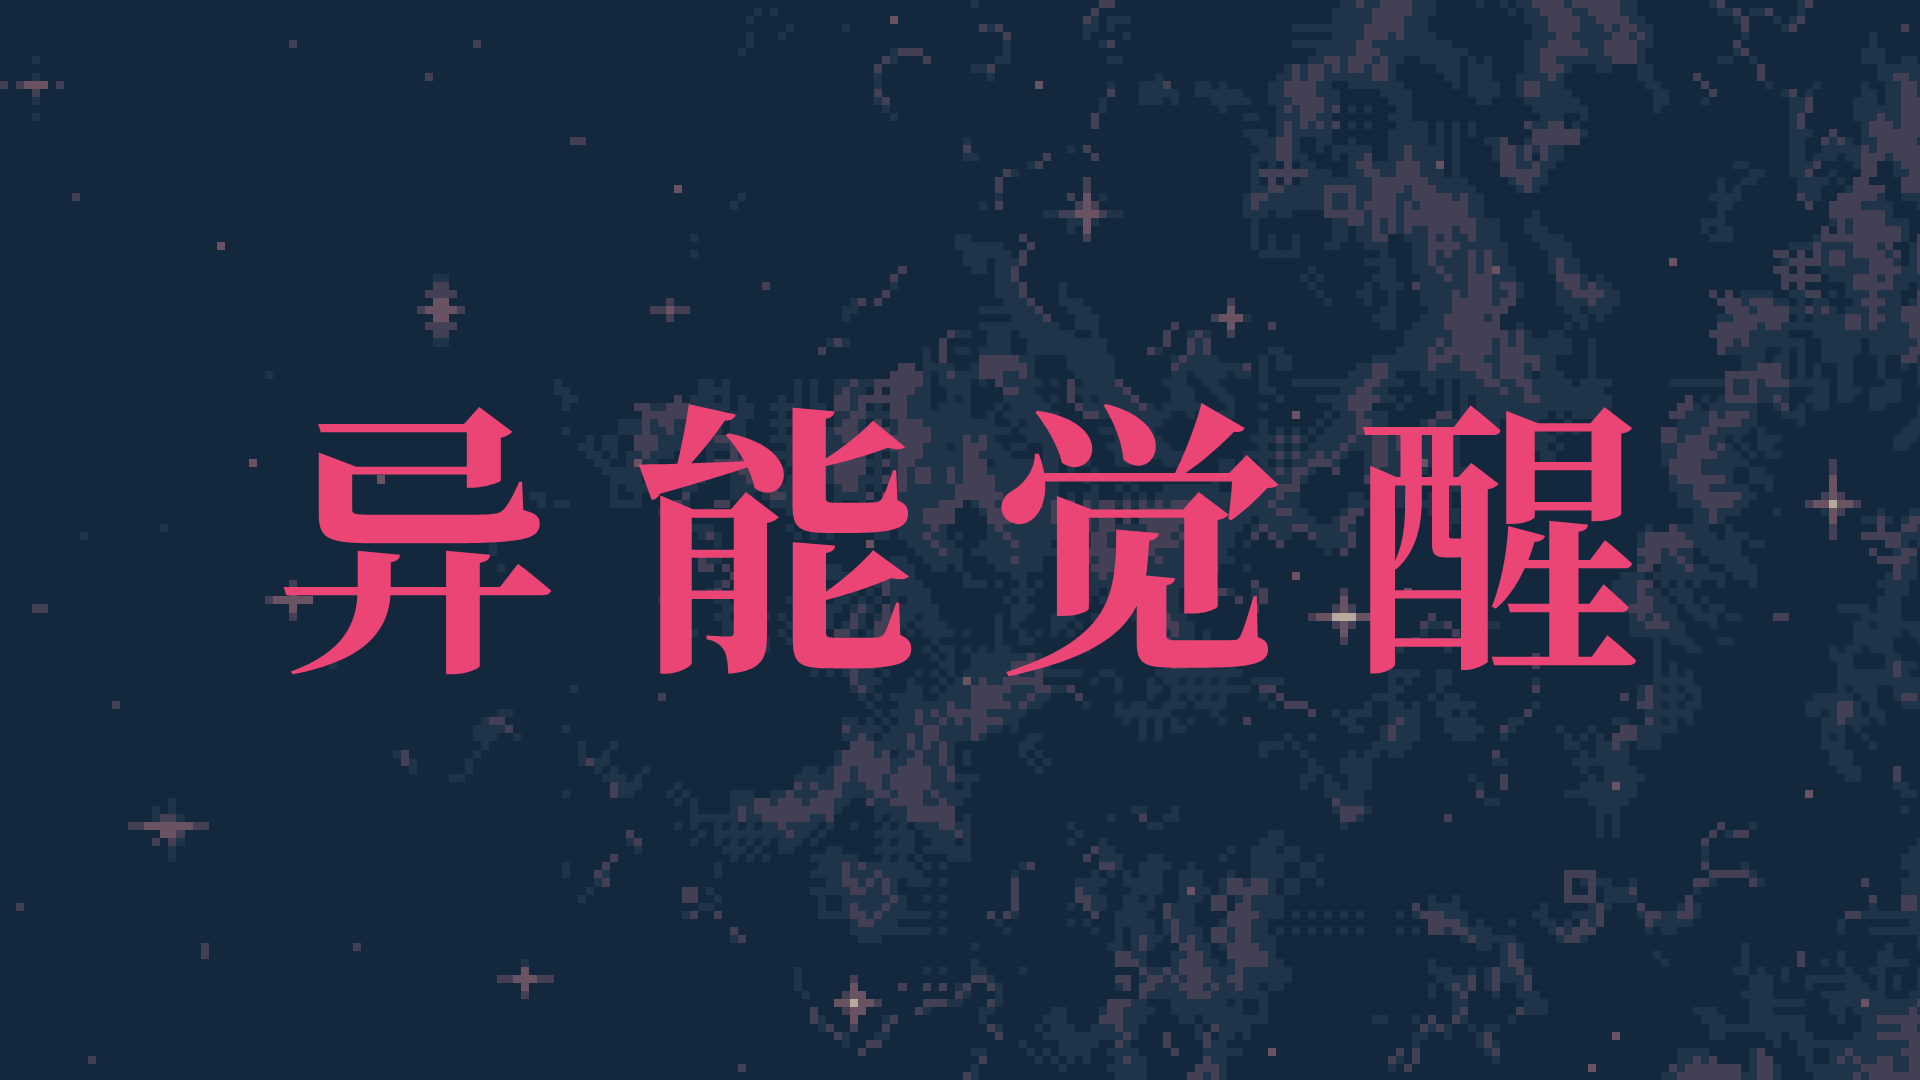
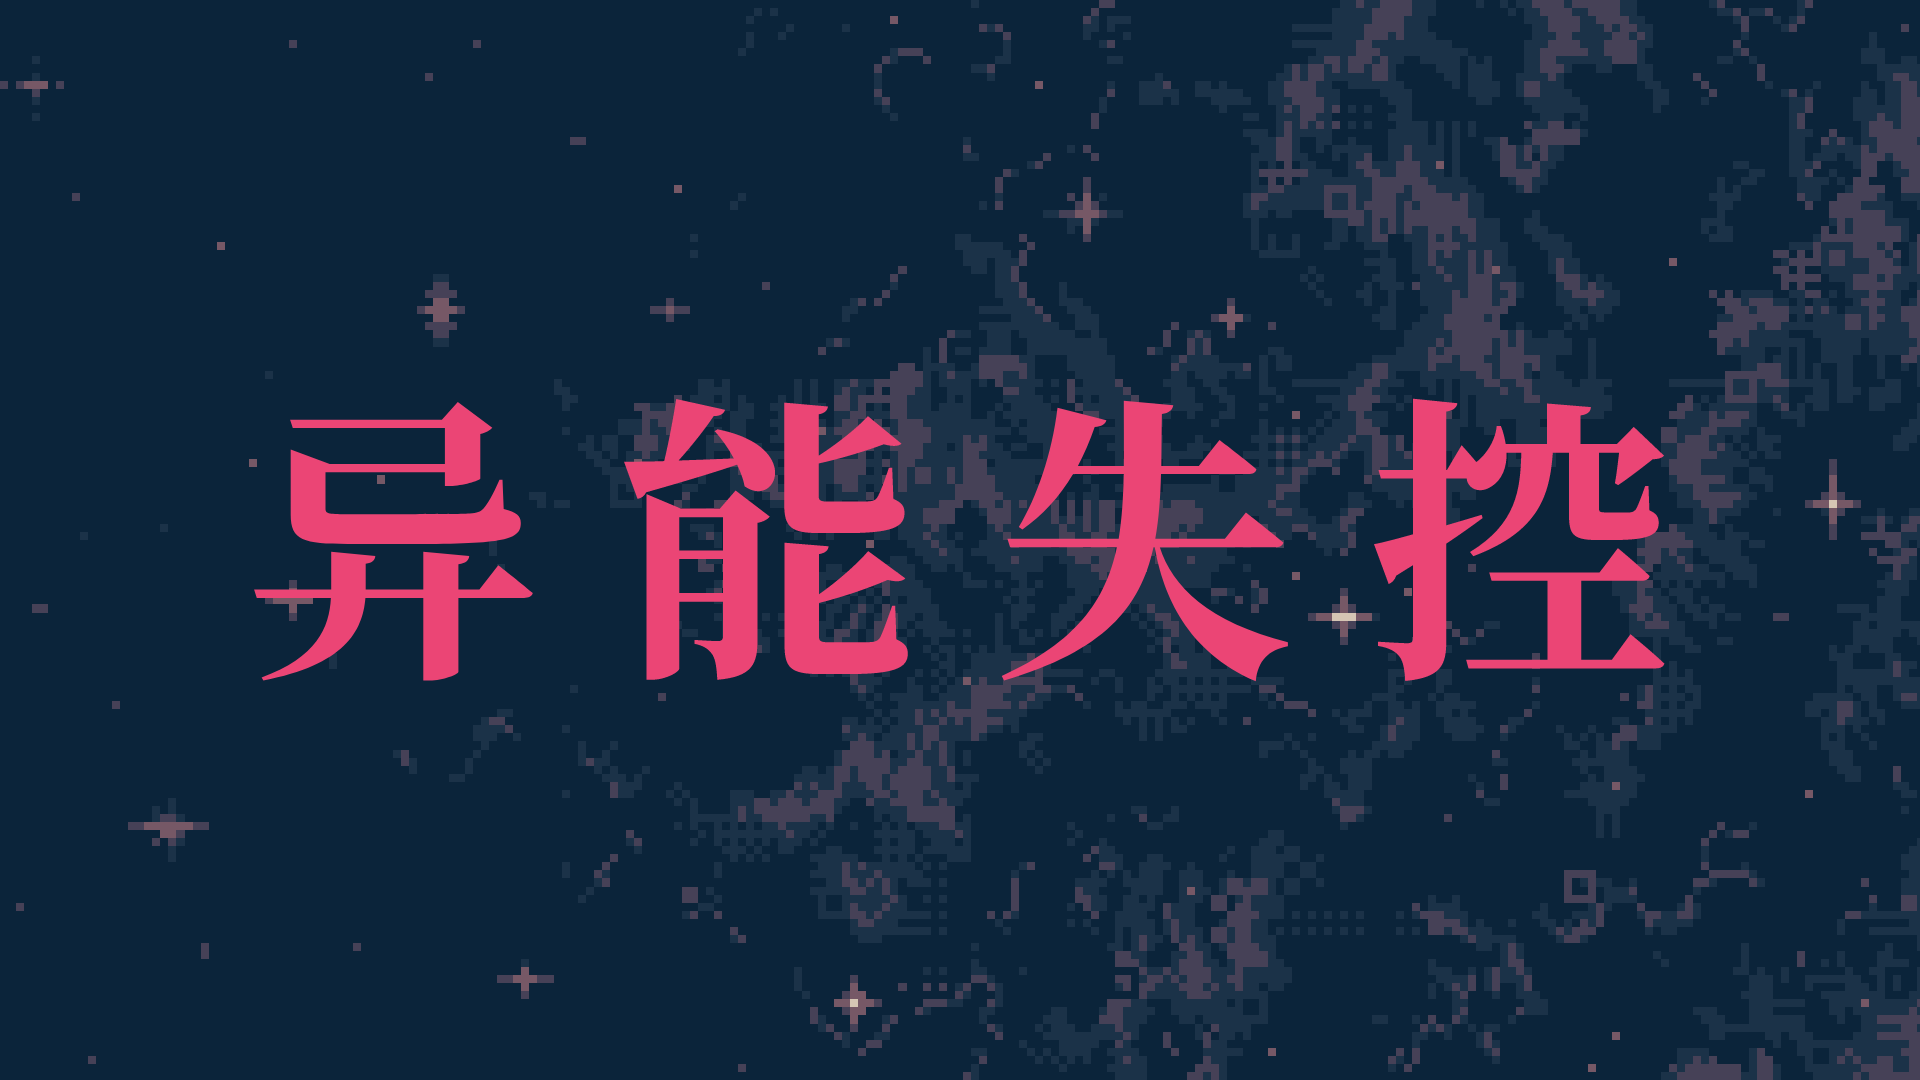
更新游戏

Changed region(s): [[0.5, 0.3667, 0.875, 0.6417], [0.3125, 0.3667, 0.4688, 0.6417], [0.125, 0.3667, 0.2812, 0.6417]]

diff --git a/index.html b/index.html
@@ -129,16 +129,54 @@
 					</header>
 					<div class="posts">
 
+						<!-- 善恶启示录 -->
+						<article>
+							<a href="https://www.taptap.cn/app/243543" class="image"><img src="images/efotuo.png"
+									alt="" /></a>
+							<h3>善恶启示录</h3>
+							<div class="game-des">
+								开局一只小破鬼，获取资源全靠等。在这里，你目之所及的对手是，神圣西天大雷音帮帮主，如林-加特来，阿弥陀佛，施主，该上路了。宇宙超级英雄-咏春叶问，我要打十个！只因门门主-坤太美，你干嘛！哎呦！超级双料特工-鸡汤甲
+								鸡汤来喽！沙城一霸-龙叔，爆率真的高，布灵布灵的！地摊瓜太保-刘强哥，你这游戏保熟吗？
+
+								这，可能是你玩过最无厘头的一个游戏。
+								<br><br>
+								爱发电主页♡：<a href="https://afdian.net/a/efotuo">https://afdian.net/a/efotuo</a>
+								<br><br>
+								(游戏预计12月上旬正式在TapTap和好游快曝上线)
+							</div>
+							<div>
+								<!-- <div class="button custom-button"><a
+										href="https://apps.apple.com/cn/app/id1624369553#?platform=iphone">AppStore</a>
+								</div> -->
+
+								<div class="button custom-button"><a
+										href="https://www.taptap.cn/app/243543">TapTap（预约）</a>
+								</div>
+
+								<div class="button custom-button"><a
+										href="https://www.3839.com/a/148333.htm">好游快爆（预约）</a>
+								</div>
+
+								<!-- <div class="button custom-button"><a
+										href="http://a.4399.cn/game-id-235030.html">4399</a>
+								</div> -->
+							</div>
+						</article>
+
+
 						<!-- 异能觉醒 -->
 						<article>
 							<a href="https://www.taptap.com/app/242377" class="image"><img src="images/noneskill.png"
 									alt="" /></a>
-							<h3>异能觉醒</h3>
+							<h3>异能失控</h3>
 							<div class="game-des">
-								4508年，因核泄露污染水域从而造成人类大灭绝，并造成了全球生物变异，但少数人类适应了污染，造成了细胞全面进化，使生命层次进化觉醒异能。<br>
-								自从污染事件已来，整个世界变得异常的诡异，一些【奇奇怪怪】的东西，开始出现，什么鸡坤，什么篮球，杀伤力不强，但是让人异常头晕。在这个少数人的世界，开始一段令人哇塞的旅程。收集各种各样的物品，打造各种奇怪的装备，战斗各种让人费解的敌人。还可以养宠物，升级宠物，带着宠物去打怪……
+								坐在回家的公交车上，刚打开小说想看一会，突然左侧一股巨大的冲击力将我从座位上弹飞起来，一瞬间，我的意识变得模糊……
 
-								一旦你开始玩这个游戏，奇怪的事情，就开始发生了……
+								不知过了多久，周围的惨叫声将我惊醒，我从侧翻的公交车上奋力爬出，这才发现整个城市已经是一片狼藉。满大街的尸体，鲜血，还有正在撕咬活人的怪物。
+
+								卧槽，到底发生了什么？，算了！当务之急，还是先跑回家比较安全！
+
+								人类为了获得无限能源，打开了上帝禁区，复制了镜像世界，可在复制的过程中，系统出现严重错乱，导致了整个世界的异常……
 							</div>
 							<div>
 								<!-- <div class="button custom-button"><a
